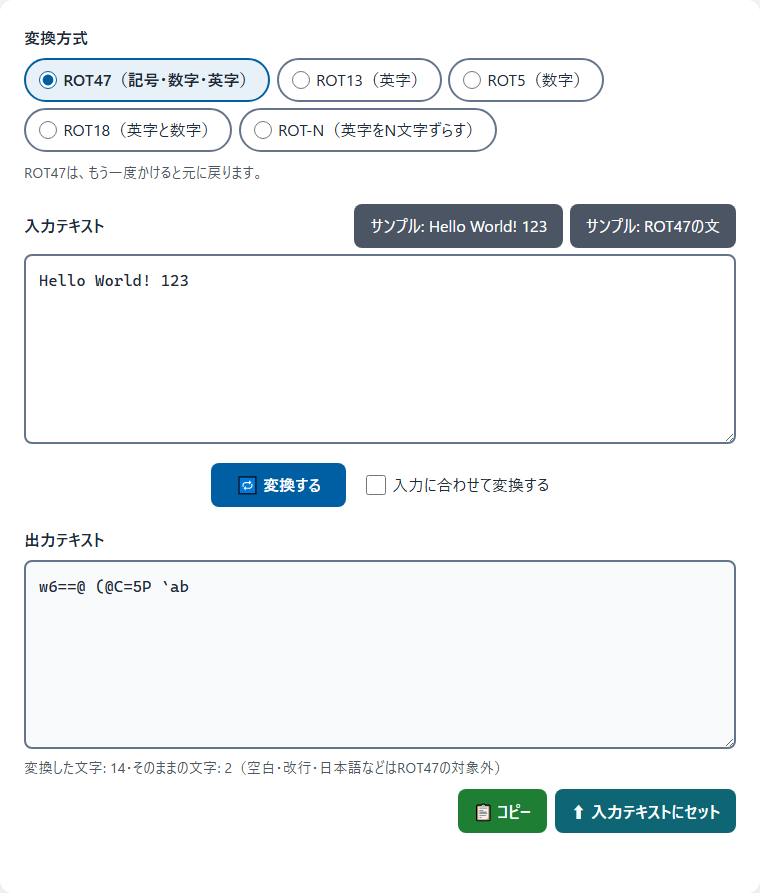
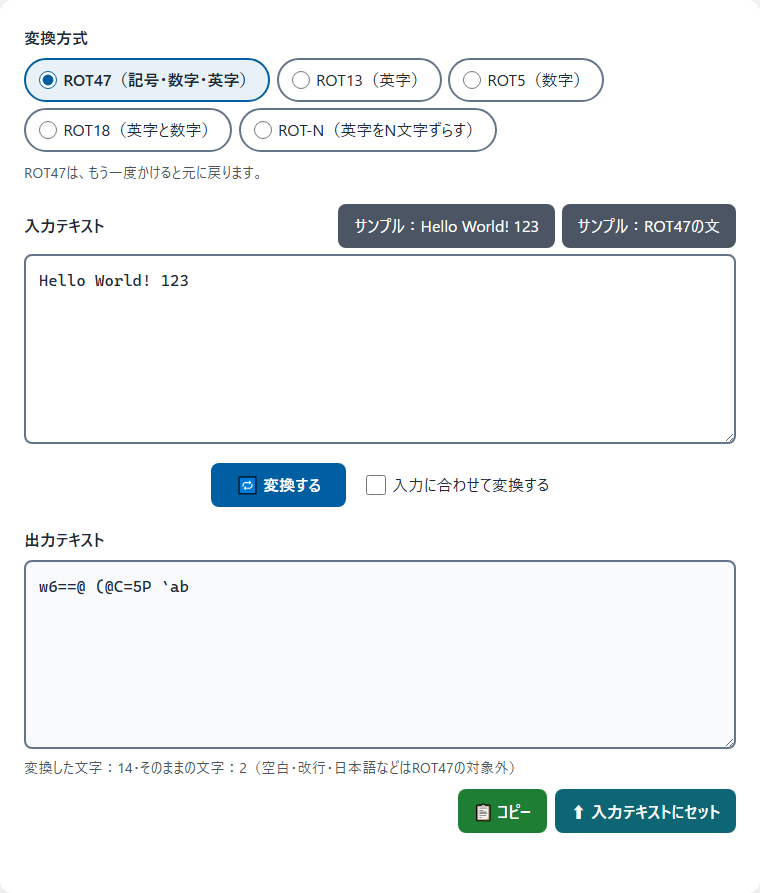
和文の区切りを全角コロンに、ROT-Nのサンプルは戻し方を案内
- 「サンプル：」「変換した文字：」など、和文の区切りを全角の「：」にそろえた
- ROT-Nのサンプルは「ROT-Nの文」に戻し、もう一度かけてもずれるので、平文に戻す数を状態表示で案内する

Changed region(s): [[0.4237, 0.2116, 0.8474, 0.3024], [0.1513, 0.8466, 0.6658, 0.8768]]

diff --git a/js/i18n.js b/js/i18n.js
@@ -18,8 +18,8 @@ const I18n = (() => {
     'method.notSelfInverse': 'ROT-{n}は、もう一度かけても元に戻りません。元に戻すにはROT-{back}をかけます（「戻す数にする」を押すと切り替わります）。',
     'input.label': '入力テキスト',
     'input.placeholder': 'ここに平文または変換した文を入力',
-    'sample.plain': 'サンプル: {text}',
-    'sample.cipher': 'サンプル: {name}の文',
+    'sample.plain': 'サンプル：{text}',
+    'sample.cipher': 'サンプル：{name}の文',
     'live.label': '入力に合わせて変換する',
     'convert': '🔁 変換する',
     'output.label': '出力テキスト',
@@ -32,6 +32,7 @@ const I18n = (() => {
     'status.setShifted': '出力を入力テキストに移して、もう一度ROT-{n}をかけました。元に戻すにはROT-{back}をかけます（「戻す数にする」を押すと切り替わります）。',
     'status.setNothing': 'セットする出力がありません。',
     'status.inverted': 'ずらす数を{n}にしました。',
+    'status.sampleShifted': 'ROT-{n}の文を入れて、もう一度ROT-{n}をかけました。平文に戻すにはROT-{back}をかけます（「戻す数にする」を押すと切り替わります）。',
     'status.shiftFixed': 'ずらす数は1〜25の整数です。{n}にしました。',
     'status.used': '{name}で変換しました。',
     'scope.rot47': '空白・改行・日本語などはROT47の対象外',
@@ -39,7 +40,7 @@ const I18n = (() => {
     'scope.rot5': 'ROT5が変えるのは数字だけ',
     'scope.rot18': 'ROT18が変えるのは英字と数字だけ',
     'scope.rotn': 'ROT-Nが変えるのは英字だけ',
-    'stats.line': '変換した文字: {changed}・そのままの文字: {kept}（{scope}）',
+    'stats.line': '変換した文字：{changed}・そのままの文字：{kept}（{scope}）',
     'stats.fullWidth': '全角の文字が{count}文字あります（半角なら{name}で変換される文字）。{name}が変換するのは半角（ASCII）の文字だけです。',
     'map.title': '🔤 対応表',
     'map.caption': '各マスは「元の文字→変換後の文字」で、色は元の文字の種類です。入力に含まれる文字は太い枠で示します。',
@@ -62,7 +63,7 @@ const I18n = (() => {
     'detect.bestTie': 'いちばん英文らしい（同点）',
     'detect.tieNote': '{names}は数字だけが違うので、点数では区別できません。',
     'detect.nameSep': '、',
-    'detect.meter': '英文らしさ（1位を100、最下位を0とした値）: {percent}',
+    'detect.meter': '英文らしさ（1位を100、最下位を0とした値）：{percent}',
     'detect.result': '{count}通りの変換結果を比べ、英文らしい順に上位{shown}件を表示しています。',
     'detect.weak': 'どの結果も英文らしさがはっきりしないので、判定は当てになりません。',
     'detect.empty': '判定できる文字がありません。半角の英数字・記号を含む文を入れてください。',
@@ -121,6 +122,9 @@ const I18n = (() => {
       'The output was moved into the input and ROT-{n} was applied again. ROT-{back} gives the original back (press "Switch to the undo shift").',
     'status.setNothing': 'There is no output to use.',
     'status.inverted': 'The shift is now {n}.',
+    'status.sampleShifted':
+      'ROT-{n} text was put in the input and ROT-{n} was applied again. ROT-{back} turns it back into the plain text (press "Switch to the undo' +
+      ' shift").',
     'status.shiftFixed': 'The shift must be a whole number from 1 to 25, so it is now {n}.',
     'status.used': 'Converted with {name}.',
     'scope.rot47': 'spaces, line breaks and non-ASCII text are not part of ROT47',

diff --git a/js/main.js b/js/main.js
@@ -121,12 +121,13 @@ document.addEventListener('DOMContentLoaded', () => {
     if (live.checked) convert();
   });
   document.querySelectorAll('.sample-button').forEach(button => button.addEventListener('click', () => {
-    // The hidden sample is made so that converting it with the chosen method gives the plain sample back
-    // (for ROT-N that is the text shifted by 26 - N)
-    const n = method() === 'rotn' ? RotCore.inverseShift(shift()) : shift();
-    input.value = button.dataset.sample === 'plain' ? PLAIN_SAMPLE : RotCore.convert(PLAIN_SAMPLE, method(), n);
+    input.value = button.dataset.sample === 'plain' ? PLAIN_SAMPLE : RotCore.convert(PLAIN_SAMPLE, method(), shift());
     convert();
     inputChanged();
+    // ROT-N does not undo itself, so converting its sample shifts it again: say how to get the plain text back
+    if (button.dataset.sample === 'cipher' && !RotCore.isSelfInverse(method(), shift())) {
+      showStatus('status.sampleShifted', { n: shift(), back: RotCore.inverseShift(shift()) });
+    }
   }));
 
   $('copy-button').addEventListener('click', async () => {

diff --git a/index.html b/index.html
@@ -47,8 +47,8 @@
         <div class="area-header">
           <label for="input-text" data-i18n="input.label">入力テキスト</label>
           <div class="sample-buttons">
-            <button type="button" class="sample-button" data-sample="plain" id="sample-plain">サンプル: Hello World! 123</button>
-            <button type="button" class="sample-button" data-sample="cipher" id="sample-cipher">サンプル: ROT47の文</button>
+            <button type="button" class="sample-button" data-sample="plain" id="sample-plain">サンプル：Hello World! 123</button>
+            <button type="button" class="sample-button" data-sample="cipher" id="sample-cipher">サンプル：ROT47の文</button>
           </div>
         </div>
         <textarea id="input-text" rows="6" spellcheck="false" autocomplete="off" data-i18n-placeholder="input.placeholder"></textarea>

diff --git a/README.md b/README.md
@@ -501,7 +501,7 @@ quick-rot47/
 | **変換方式** | ROT47・ROT13・ROT5・ROT18・ROT-Nから選ぶ。選び直すと、入力をその方式で変換し直す |
 | **ずらす数（N）** | ROT-Nのときだけ表示する。1〜25の整数。範囲外の整数は26で割った余りに直し（余りが0なら13）、空欄や整数でない値は直前の数に戻す |
 | **戻す数にする** | Nを、ROT-Nを戻す数（26−N）に変える |
-| **入力テキスト** | 複数行の入力欄。サンプルのボタンで、平文か、選んだ方式で変換すると平文に戻る文を入れられる |
+| **入力テキスト** | 複数行の入力欄。サンプルのボタンで、平文か、選んだ方式で変換した文を入れられる（ROT-Nでは、平文に戻す方法を案内する） |
 | **変換する** | 入力を選んだ方式で変換して出力に入れる |
 | **入力に合わせて変換する** | オンにすると、入力するそばから変換する |
 | **出力テキスト** | 変換結果（読み取り専用）。下に変換した文字とそのまま残った文字の数を表示する |

diff --git a/README.en.md b/README.en.md
@@ -464,7 +464,7 @@ quick-rot47/
 | **Method** | ROT47, ROT13, ROT5, ROT18 or ROT-N. Choosing another method converts the input again with it |
 | **Shift (N)** | Shown for ROT-N only. A whole number from 1 to 25. Other whole numbers become their remainder modulo 26 (13 if that is 0); an empty field or anything else goes back to the previous shift |
 | **Switch to the undo shift** | Changes N to the shift that undoes ROT-N (26 − N) |
-| **Input text** | A multi-line input. The sample buttons fill in plain text, or text that the chosen method turns back into the plain text |
+| **Input text** | A multi-line input. The sample buttons fill in plain text, or the text converted with the chosen method (for ROT-N, the page says how to get the plain text back) |
 | **Convert** | Converts the input with the chosen method and puts the result in the output |
 | **Convert as I type** | When on, the output follows the input as you type |
 | **Output text** | The result (read-only). Below it, the counts of converted characters and characters left as they are |
